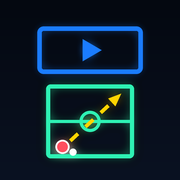
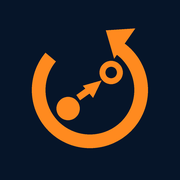
配色をオレンジに変更し、アイコンを他のアプリと同じ作りに描き直す

diff --git a/src/components/EditTab.tsx b/src/components/EditTab.tsx
@@ -68,7 +68,7 @@ export default function EditTab({ project: p, setProject, file }: ProjectProps &
         <div className="relative h-5 mx-2">
           {kfs.map(k => (
             <button key={k.id} onClick={() => setT(k.t)} aria-label={`${fmt(k.t)}の◆`}
-              className={`absolute top-0 -translate-x-1/2 text-base leading-none ${k === cur ? 'text-cyan drop-shadow-[0_0_6px_#2ef2b4]' : 'text-fg/70'}`}
+              className={`absolute top-0 -translate-x-1/2 text-base leading-none ${k === cur ? 'text-accent drop-shadow-[0_0_6px_#ff8a1f]' : 'text-fg/70'}`}
               style={{ left: `${(k.t / len) * 100}%` }}>◆</button>
           ))}
         </div>
@@ -84,7 +84,7 @@ export default function EditTab({ project: p, setProject, file }: ProjectProps &
       <div className="flex gap-1.5">
         {([['move', '動かす', IconHand], ['arrow', '矢印', IconArrow], ['zone', '範囲', IconZone]] as const).map(([id, label, Icon]) => (
           <button key={id} onClick={() => setTool(id)}
-            className={`flex-1 min-h-11 rounded-xl text-[13px] font-bold flex items-center justify-center gap-1 border ${tool === id ? 'bg-cyan text-ink border-cyan' : 'bg-raised border-line text-fg'}`}>
+            className={`flex-1 min-h-11 rounded-xl text-[13px] font-bold flex items-center justify-center gap-1 border ${tool === id ? 'bg-accent text-ink border-accent' : 'bg-raised border-line text-fg'}`}>
             <Icon className="text-base" />{label}
           </button>
         ))}
@@ -104,8 +104,8 @@ export default function EditTab({ project: p, setProject, file }: ProjectProps &
 
       {/* 今の◆ */}
       {cur ? (
-        <div className="rounded-2xl border border-cyan/40 bg-surface p-3 space-y-2.5">
-          <p className="text-xs font-bold text-cyan">◆ {fmt(cur.t)} の説明（次の◆まで動画の左下に出ます）</p>
+        <div className="rounded-2xl border border-accent/40 bg-surface p-3 space-y-2.5">
+          <p className="text-xs font-bold text-accent">◆ {fmt(cur.t)} の説明（次の◆まで動画の左下に出ます）</p>
           <input className={inputCls} maxLength={30} placeholder="例：ここで裏へ走る" value={cur.caption}
             onChange={e => { const v = e.target.value; upsert(k => ({ ...k, caption: v })) }} />
           <div className="flex gap-2">
@@ -129,7 +129,7 @@ export default function EditTab({ project: p, setProject, file }: ProjectProps &
           <div className="grid grid-cols-4 gap-2">
             {([3, 5, 8, 11] as Mode[]).map(m => (
               <button key={m} onClick={() => setMode(m)}
-                className={`min-h-14 rounded-xl font-black text-lg border ${p.mode === m ? 'bg-cyan text-ink border-cyan' : 'bg-raised border-line'}`}>
+                className={`min-h-14 rounded-xl font-black text-lg border ${p.mode === m ? 'bg-accent text-ink border-accent' : 'bg-raised border-line'}`}>
                 {m}<span className="text-xs font-bold">人制</span>
               </button>
             ))}
@@ -152,7 +152,7 @@ function Sheet({ title, onClose, children }: { title: string; onClose: () => voi
           onClick={e => e.stopPropagation()}>
           <div className="flex items-center justify-between mb-4">
             <h3 className="text-lg font-black">{title}</h3>
-            <button className="min-h-10 px-3 text-cyan font-bold" onClick={onClose}>完了</button>
+            <button className="min-h-10 px-3 text-accent font-bold" onClick={onClose}>完了</button>
           </div>
           {children}
         </div>
@@ -184,7 +184,7 @@ function PieceSheet({ id, project: p, setProject, onClose }: ProjectProps & { id
           <div className="flex flex-wrap gap-1.5 max-h-32 overflow-y-auto">
             {roster.map((r, i) => (
               <button key={i} onClick={() => set({ number: r.number, name: r.name })}
-                className={`min-h-9 px-3 rounded-full border text-sm font-bold ${pc.name === r.name && pc.number === r.number ? 'bg-cyan text-ink border-cyan' : 'bg-raised border-line'}`}>
+                className={`min-h-9 px-3 rounded-full border text-sm font-bold ${pc.name === r.name && pc.number === r.number ? 'bg-accent text-ink border-accent' : 'bg-raised border-line'}`}>
                 {r.number && <span className="opacity-60 mr-1">{r.number}</span>}{r.name}
               </button>
             ))}

diff --git a/src/components/ui.tsx b/src/components/ui.tsx
@@ -14,7 +14,7 @@ export const Card = ({ children, className = '' }: { children: ReactNode; classN
 // 画面ごとの見出し：小さな英字ラベル＋斜体の大見出し
 export const ScreenTitle = ({ step, en, title, sub }: { step: string; en: string; title: string; sub?: string }) => (
   <div className="mb-5">
-    <p className="text-[11px] font-black italic tracking-[0.25em] text-cyan">STEP {step} — {en}</p>
+    <p className="text-[11px] font-black italic tracking-[0.25em] text-accent">STEP {step} — {en}</p>
     <h2 className="mt-1 text-2xl font-black italic -skew-x-6 origin-left">{title}</h2>
     {sub && <p className="mt-1 text-sm text-muted">{sub}</p>}
   </div>
@@ -31,11 +31,11 @@ export const Field = ({ label, children }: { label: string; children: ReactNode 
   </label>
 )
 
-export const inputCls = 'w-full h-12 rounded-xl bg-raised border border-line px-3.5 text-base text-fg placeholder:text-muted/60 focus:outline-none focus:border-cyan focus:ring-2 focus:ring-cyan/30 transition'
+export const inputCls = 'w-full h-12 rounded-xl bg-raised border border-line px-3.5 text-base text-fg placeholder:text-muted/60 focus:outline-none focus:border-accent focus:ring-2 focus:ring-accent/30 transition'
 
 type BtnProps = ButtonHTMLAttributes<HTMLButtonElement> & { variant?: 'primary' | 'secondary' | 'ghost' | 'danger' }
 const VARIANT = {
-  primary: 'bg-[linear-gradient(110deg,#2ef2b4,#1a7cff)] text-ink shadow-[0_6px_24px_-6px_rgba(46,242,180,0.55)]',
+  primary: 'bg-[linear-gradient(110deg,#ffb020,#ff6a1f)] text-ink shadow-[0_6px_24px_-6px_rgba(255,138,31,0.55)]',
   secondary: 'bg-raised text-fg border border-line',
   ghost: 'text-muted',
   danger: 'text-danger',
@@ -47,7 +47,7 @@ export const Button = ({ variant = 'secondary', className = '', ...p }: BtnProps
 
 export const Toggle = ({ checked, onChange, label }: { checked: boolean; onChange: (v: boolean) => void; label: string }) => (
   <button role="switch" aria-checked={checked} aria-label={label} onClick={() => onChange(!checked)}
-    className={`relative w-13 h-8 rounded-full transition ${checked ? 'bg-brand shadow-[0_0_12px_rgba(26,124,255,0.6)]' : 'bg-line'}`}>
+    className={`relative w-13 h-8 rounded-full transition ${checked ? 'bg-brand shadow-[0_0_12px_rgba(255,138,31,0.6)]' : 'bg-line'}`}>
     <span className={`absolute top-1 left-1 w-6 h-6 rounded-full bg-white shadow transition-transform ${checked ? 'translate-x-5' : ''}`} />
   </button>
 )

diff --git a/src/App.tsx b/src/App.tsx
@@ -94,12 +94,12 @@ export default function App() {
           {TABS.map(({ id, label, Icon }, i) => {
             const active = tab === id
             return (
-              <button key={id} onClick={() => setTab(id)} className={`relative flex flex-col items-center gap-1 pt-2.5 pb-2 transition ${active ? 'text-cyan' : 'text-muted'}`}>
-                {active && <span className="absolute top-0 h-0.5 w-10 rounded-full bg-cyan shadow-[0_0_10px_#2ef2b4]" />}
+              <button key={id} onClick={() => setTab(id)} className={`relative flex flex-col items-center gap-1 pt-2.5 pb-2 transition ${active ? 'text-accent' : 'text-muted'}`}>
+                {active && <span className="absolute top-0 h-0.5 w-10 rounded-full bg-accent shadow-[0_0_10px_#ff8a1f]" />}
                 <span className="relative text-2xl">
                   <Icon />
                   {id === 'edit' && project.keyframes.length > 0 && (
-                    <span className="absolute -top-1.5 -right-3 min-w-5 h-5 px-1 rounded-full bg-cyan text-ink text-[11px] font-bold grid place-items-center">{project.keyframes.length}</span>
+                    <span className="absolute -top-1.5 -right-3 min-w-5 h-5 px-1 rounded-full bg-accent text-ink text-[11px] font-bold grid place-items-center">{project.keyframes.length}</span>
                   )}
                 </span>
                 <span className="text-[10.5px] font-bold whitespace-nowrap tracking-tight"><span className="opacity-50 mr-0.5">0{i + 1}</span>{label}</span>

diff --git a/src/components/VideoTab.tsx b/src/components/VideoTab.tsx
@@ -39,7 +39,7 @@ export default function VideoTab({ project: p, setProject, file, addFile, next }
       {!p.source || !file ? (
         <Card className="text-center space-y-3">
           {p.source && <p className="text-sm text-muted">前回の動画「{p.source.name}」をもう一度選んでください</p>}
-          <FilePicker multiple={false} onFiles={addFile} className="w-full min-h-14 rounded-xl bg-[linear-gradient(110deg,#2ef2b4,#1a7cff)] text-ink">
+          <FilePicker multiple={false} onFiles={addFile} className="w-full min-h-14 rounded-xl bg-[linear-gradient(110deg,#ffb020,#ff6a1f)] text-ink">
             <IconVideo className="text-xl" />試合の動画を選ぶ
           </FilePicker>
         </Card>
@@ -47,7 +47,7 @@ export default function VideoTab({ project: p, setProject, file, addFile, next }
         <Card className="space-y-3">
           <VideoFrame file={file} time={t} />
           <div className="relative">
-            <div className="absolute top-1/2 -translate-y-1/2 h-2 rounded-full bg-cyan/35 pointer-events-none"
+            <div className="absolute top-1/2 -translate-y-1/2 h-2 rounded-full bg-accent/35 pointer-events-none"
               style={{ left: `${(p.clipStart / dur) * 100}%`, width: `${(len / dur) * 100}%` }} />
             <input type="range" className="relative w-full h-8" min={0} max={dur} step={0.05} value={t} onChange={e => setT(Number(e.target.value))} />
           </div>

diff --git a/src/index.css b/src/index.css
@@ -7,8 +7,8 @@
   --color-line: #222d45;
   --color-fg: #eaf0ff;
   --color-muted: #8d99b5;
-  --color-brand: #1a7cff;
-  --color-cyan: #2ef2b4;
+  --color-brand: #ff8a1f;
+  --color-accent: #ff8a1f;
   --color-danger: #ff4d6a;
 }
 
@@ -16,7 +16,7 @@
 html, body { height: 100%; margin: 0; overflow: hidden; overscroll-behavior: none; }
 body { background: var(--color-ink); color: var(--color-fg); }
 
-input[type='range'] { accent-color: var(--color-cyan); }
+input[type='range'] { accent-color: var(--color-accent); }
 
 @keyframes toast { from { opacity: 0; transform: translate(-50%, 12px) } to { opacity: 1; transform: translate(-50%, 0) } }
 @keyframes rise { from { opacity: 0; transform: translateY(14px) } to { opacity: 1; transform: none } }
@@ -32,7 +32,7 @@ input[type='range'] { accent-color: var(--color-cyan); }
 @keyframes shine { from { transform: translateX(-120%) skewX(-20deg) } to { transform: translateX(260%) skewX(-20deg) } }
 
 .speedlines {
-  background: repeating-conic-gradient(from 0deg at 50% 50%, rgba(46, 242, 180, 0.2) 0deg 1.2deg, transparent 1.2deg 7deg);
+  background: repeating-conic-gradient(from 0deg at 50% 50%, rgba(255, 138, 31, 0.2) 0deg 1.2deg, transparent 1.2deg 7deg);
   mask-image: radial-gradient(circle at 50% 50%, transparent 18%, #000 60%);
 }
 .rise { animation: rise 0.45s cubic-bezier(.2, .8, .2, 1) both }

diff --git a/src/components/ExportTab.tsx b/src/components/ExportTab.tsx
@@ -80,7 +80,7 @@ export default function ExportTab({ project: p, setProject, file, addFile }: Pro
         <Card className="space-y-3">
           <p className="text-sm font-bold">{progress.label || '準備中'}</p>
           <div className="h-2 rounded-full bg-raised overflow-hidden">
-            <div className="h-full bg-[linear-gradient(90deg,#2ef2b4,#1a7cff)] transition-[width]" style={{ width: `${progress.p * 100}%` }} />
+            <div className="h-full bg-[linear-gradient(90deg,#ffb020,#ff6a1f)] transition-[width]" style={{ width: `${progress.p * 100}%` }} />
           </div>
           <p className="text-xs text-muted">画面を開いたままお待ちください</p>
           <Button className="w-full" onClick={() => abortRef.current?.abort()}>中止</Button>

diff --git a/index.html b/index.html
@@ -14,7 +14,7 @@
     <meta property="og:title" content="REPLAY BOARD" />
     <meta property="og:description" content="試合の動きを作戦ボードで振り返る。少年サッカー向けの無料Webアプリ" />
     <meta property="og:url" content="https://satoshiatr-blip.github.io/replay-board/" />
-    <meta property="og:image" content="https://satoshiatr-blip.github.io/replay-board/og-replay.png" />
+    <meta property="og:image" content="https://satoshiatr-blip.github.io/replay-board/og-replay-v2.png" />
     <meta property="og:image:width" content="1200" />
     <meta property="og:image:height" content="630" />
     <meta name="twitter:card" content="summary_large_image" />

diff --git a/src/render.ts b/src/render.ts
@@ -10,7 +10,7 @@ export const OUT_H = 1920
 export const FPS = 30
 const SAMPLE_RATE = 48000
 const FONT = '-apple-system, "Hiragino Sans", "Hiragino Kaku Gothic ProN", sans-serif'
-const ACC = '#2ef2b4'
+const ACC = '#ff8a1f'
 
 // 縦長の画面の割り付け
 const HEAD_H = 190
@@ -43,8 +43,8 @@ export function drawFrame(ctx: Ctx, p: Project, frame: CanvasImageSource | null,
   ctx.fillRect(0, 0, OUT_W, OUT_H)
   // 見出し
   const g = ctx.createLinearGradient(0, 0, OUT_W, 0)
-  g.addColorStop(0, '#071410')
-  g.addColorStop(1, '#0a1226')
+  g.addColorStop(0, '#0a1226')
+  g.addColorStop(1, '#161022')
   ctx.fillStyle = g
   ctx.fillRect(0, 0, OUT_W, HEAD_H)
   ctx.fillStyle = ACC

diff --git a/src/components/VideoFrame.tsx b/src/components/VideoFrame.tsx
@@ -38,7 +38,7 @@ export default function VideoFrame({ file, time, caption }: { file: File | null;
       )}
       {!file && <p className="absolute inset-0 grid place-items-center text-sm text-muted">動画を選んでください</p>}
       {caption && (
-        <p className="absolute left-2.5 bottom-2.5 max-w-[85%] truncate rounded-md bg-black/70 border-l-[3px] border-cyan pl-2.5 pr-3 py-1 text-[13px] font-extrabold">{caption}</p>
+        <p className="absolute left-2.5 bottom-2.5 max-w-[85%] truncate rounded-md bg-black/70 border-l-[3px] border-accent pl-2.5 pr-3 py-1 text-[13px] font-extrabold">{caption}</p>
       )}
     </div>
   )

diff --git a/src/components/brand.tsx b/src/components/brand.tsx
@@ -1,9 +1,9 @@
 export const Logo = ({ size = 36 }: { size?: number }) => (
-  <img src="icon-512.png?v=1" width={size} height={size} className="rounded-[22%]" alt="" />
+  <img src="icon-512.png?v=2" width={size} height={size} className="rounded-[22%]" alt="" />
 )
 
 export const Wordmark = () => (
   <span className="font-black italic tracking-tight leading-none">
-    REPLAY <span className="bg-[linear-gradient(110deg,#2ef2b4,#1a7cff)] bg-clip-text text-transparent pr-0.5">BOARD</span>
+    REPLAY <span className="bg-[linear-gradient(110deg,#ffb020,#ff6a1f)] bg-clip-text text-transparent pr-0.5">BOARD</span>
   </span>
 )

diff --git a/public/sw.js b/public/sw.js
@@ -1,7 +1,7 @@
 // 会場など電波の弱い場所でも開けるよう、アプリ本体をキャッシュする（動画は扱わない）
 // GitHub Pagesはindex.html等にCache-Control: max-age=600を付けてくるため、
 // ここでの fetch は毎回 no-store でブラウザのディスクキャッシュを素通りし、常に最新を取りにいく
-const CACHE = 'replay-v1'
+const CACHE = 'replay-v2'
 
 self.addEventListener('install', () => self.skipWaiting())
 self.addEventListener('activate', e => e.waitUntil(

diff --git a/src/board.ts b/src/board.ts
@@ -168,7 +168,7 @@ export function drawBoard(ctx: Ctx, x: number, y: number, w: number, h: number, 
       continue
     }
     if (pc.id === v.selectedId) {
-      ctx.strokeStyle = '#2ef2b4'
+      ctx.strokeStyle = '#ff8a1f'
       ctx.lineWidth = r * 0.25
       ctx.beginPath()
       ctx.arc(cx, cy, r * 1.45, 0, Math.PI * 2)
